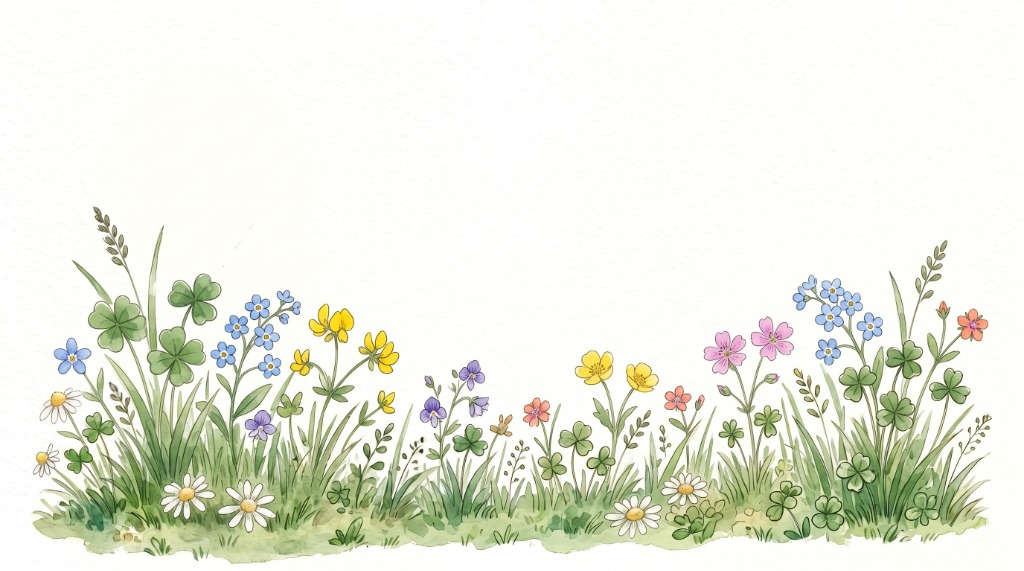
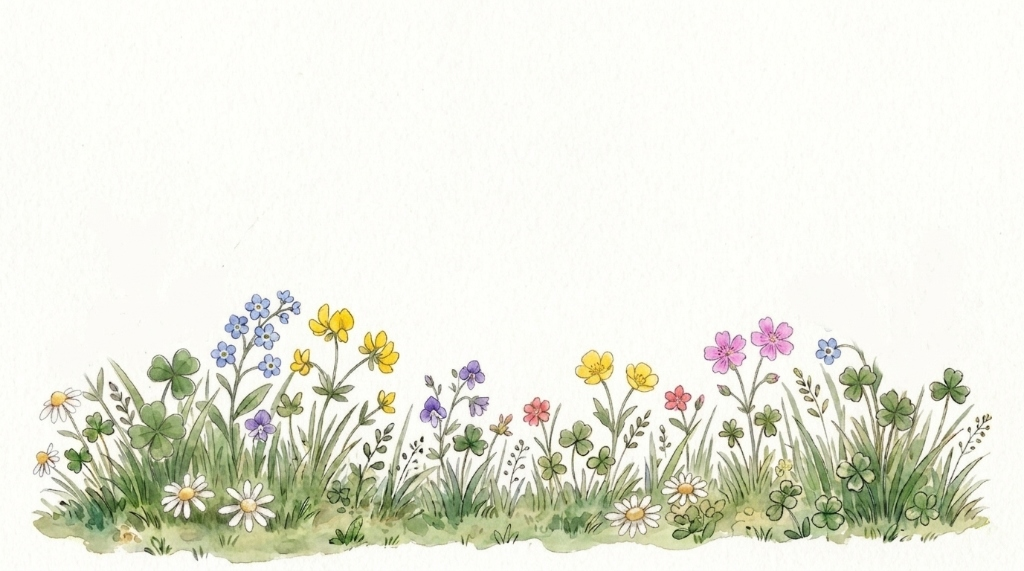
Update hero section to new high-definition watercolor wildflower meadow illustration

Changed region(s): [[0.0312, 0.3573, 0.9688, 0.9825]]

diff --git a/index.html b/index.html
@@ -13,7 +13,7 @@
         href="https://fonts.googleapis.com/css2?family=Almendra:ital,wght@0,400;0,700;1,400;1,700&family=Cinzel+Decorative:wght@700;900&family=Cormorant+Garamond:ital,wght@0,500;0,600;0,700;1,500;1,600&family=Fondamento:ital@0;1&family=Fraunces:ital,opsz,wght@0,9..144,400..900;1,9..144,400..900&family=Outfit:wght@800;900&family=Playfair+Display:ital,wght@0,600;0,700;0,800;1,600;1,700&family=Plus+Jakarta+Sans:ital,wght@0,300..900;1,300..900&family=Space+Grotesk:wght@400;500;600;700;800&family=Syne:wght@700;800&family=Caveat:wght@600;700&display=swap"
         rel="stylesheet">
 
-    <link rel="stylesheet" href="css/styles.css?v=20260911_v18">
+    <link rel="stylesheet" href="css/styles.css?v=20260912_v19">
 </head>
 
 <body>
@@ -28,7 +28,7 @@
 
             <!-- Hero Wildflower Backdrop for GSAP Crossfade -->
             <div class="hero-forest-backdrop">
-                <img src="assets/images/hero_wildflower_bg.jpg?v=20260911_wildflowers" alt="Watercolor colorful wildflowers, clovers and grass illustration" class="hero-forest-img">
+                <img src="assets/images/hero_wildflower_bg.jpg?v=20260912_wildflowers_hd" alt="Watercolor colorful wildflowers, clovers and grass illustration" class="hero-forest-img">
             </div>
 
             <!-- Header Fixed to Hero Section -->
